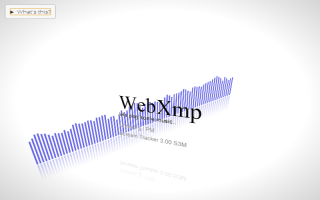
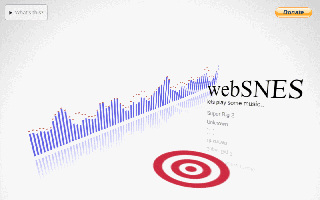
initial

diff --git a/stdlib/mini_display.js b/stdlib/mini_display.js
@@ -77,7 +77,7 @@ SongDisplay = function(displayAccessor, colors, barType, cpuLimit, doAnimate) {
 	
 	this.canvasSpectrum = document.getElementById('spectrumCanvas');
 	this.ctxSpectrum = this.canvasSpectrum.getContext('2d');
-	this.canvasSpectrum.width = this.WIDTH;
+	this.canvasSpectrum.width = this.WIDTH;	// redundant..
 
 	this.mozReflectSpectrum = document.getElementById('moz-reflect-spectrum');
 	this.mozReflectLogo = document.getElementById('moz-reflect-logo');
@@ -131,6 +131,12 @@ SongDisplay.prototype = {
 			
 			var numBars = Math.round(this.WIDTH / this.barSpacing);
 
+			if(typeof this.caps === 'undefined') {
+				this.caps= new Array(numBars);
+				this.decayRate= 0.99;
+				for (var i= 0; i<numBars; i++) this.caps[i]= 0;
+			}
+			
 			this.ctxSpectrum.clearRect(0, 0, this.WIDTH, this.HEIGHT);
 
 			this.ctxSpectrum.lineCap = 'round';
@@ -164,6 +170,12 @@ SongDisplay.prototype = {
 						this.ctxSpectrum.fillStyle = this.colorGradient(this.colors,i/numBars);
 						var magnitude = freqByteData[i + OFFSET]*this.HEIGHT/255;
 						this.ctxSpectrum.fillRect(i * this.barSpacing, this.HEIGHT, this.barWidth, -magnitude);
+						
+						this.ctxSpectrum.fillStyle= "#b75b4e";
+						var d= this.caps[i]*this.decayRate;
+						this.caps[i]= Math.max(d, magnitude);
+						
+						this.ctxSpectrum.fillRect(i * this.barSpacing, this.HEIGHT-this.caps[i], this.barWidth, 3);				
 					}		
 				}
 			} else {
@@ -200,11 +212,17 @@ SongDisplay.prototype = {
 		}		
 		this.lastRenderTime= new Date().getTime()-this.lastRenderTime;
 	},
-	text: function(ctx, text, x, y) {
-		if(typeof text === 'undefined')
+	text: function(ctx, t, x, y) {
+		if(typeof t === 'undefined')
 			return;
-		ctx.strokeText(text, x, y);
-		ctx.fillText(text, x, y);
+				
+		t = t.replace(/&#.*?;/g, function (needle) {	// replace html chars "&#111;"
+			return String.fromCharCode( parseInt(needle.substring(2, needle.length-1)));
+		}.bind(this));
+
+		
+		ctx.strokeText(t, x, y);
+		ctx.fillText(t, x, y);
 	},
 	redrawSongInfo: function() {
 		this.reqAnimationFrame();	// start the animation going
@@ -215,7 +233,8 @@ SongDisplay.prototype = {
 		this.ctxLegend.fillStyle = '#000';
 		this.ctxLegend.strokeStyle = "#FFFFFF";
 		
-		this.ctxLegend.font = '90px serif bold';
+//		this.ctxLegend.font = '90px serif bold';
+		this.ctxLegend.font = '90px serif';	// for some reason the Chrome idiots removed support for "bold"
 		
 		this.text(this.ctxLegend, this.displayAccessor.getDisplayTitle(), 20, 70);
 		

diff --git a/stdlib/common.css b/stdlib/common.css
@@ -38,7 +38,8 @@ body {
   font-weight: 300;
   -webkit-font-smoothing: antialiased;
   padding: 2em;
-  background: -webkit-gradient(radial, center center, 500, center center, 1400, from(rgba(0,0,0,0)), to(rgba(0,0,0,0.6))) #fff;
+
+	background: -webkit-gradient(radial, center center, 500, center center, 1400, from(rgba(0,0,0,0)), to(rgba(0,0,0,0.6))) #fff;
   background: -moz-radial-gradient(farthest-side, rgba(0,0,0,0) 90%, rgba(0,0,0,0.2) 150%) #fff;
   background: -webkit-radial-gradient(farthest-side, rgba(0,0,0,0) 90%, rgba(0,0,0,0.2) 150%) #fff;
   background: -ms-radial-gradient(farthest-side, rgba(0,0,0,0) 90%, rgba(0,0,0,0.2) 150%) #fff;
@@ -164,7 +165,7 @@ html, body {
 body > section {
   display: -webkit-flex;
   display: flex;
-  
+
   -webkit-flex-direction: column;
   flex-direction: column;
   -webkit-justify-content: center;

diff --git a/index.html b/index.html
@@ -63,7 +63,7 @@ LibGMEDisplayAccessor = (function(){ var $this = function (doGetSongInfo) {
 		$this.base.call(this, doGetSongInfo);
 	}; 
 	extend(DisplayAccessor, $this, {
-		getDisplayTitle: function() 	{ return "libgme";},
+		getDisplayTitle: function() 	{ return "webSNES";},
 		getDisplaySubtitle: function() 	{ return "lets play some music..";},
 		getDisplayLine1: function() { return this.getSongInfo().game;},
 		getDisplayLine2: function() { return this.getSongInfo().author; },
@@ -90,7 +90,7 @@ function init() {
 		
 	// --------------------------- UI - basic player controls --------------
 	var songs = [
-		'music/add-your-music-here.spc',
+		'music/sb2-01.spc',
 	];
 	playerControls= new BasicPlayerControls(songs, true, false,
 				(function(someSong) {
